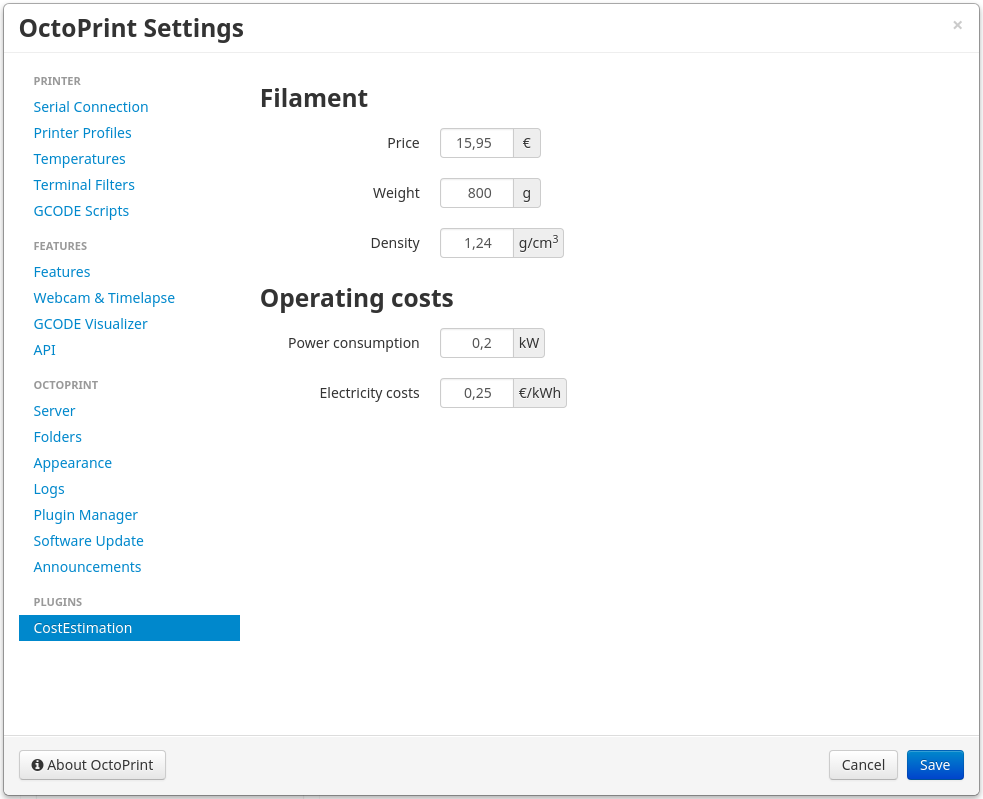
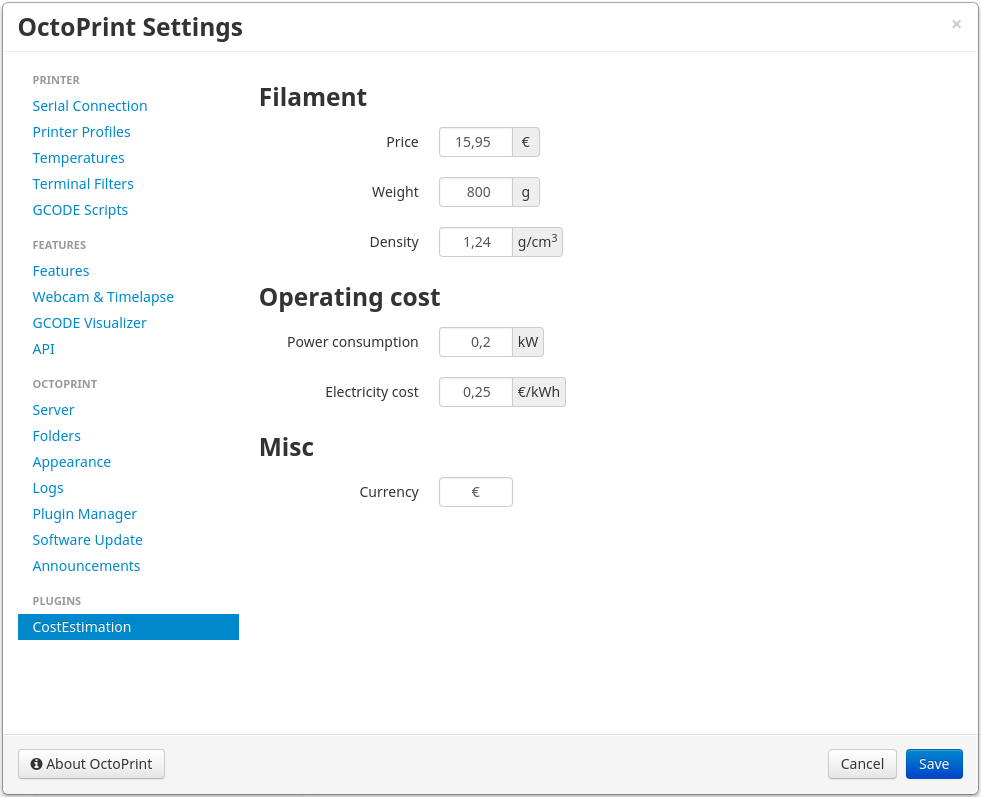
Added field to set currency symbol (#1)

diff --git a/octoprint_costestimation/static/js/costestimation.js b/octoprint_costestimation/static/js/costestimation.js
@@ -28,7 +28,7 @@ $(function() {
             var estimatedPrintTime = self.printerState.estimatedPrintTime() / 3600;  // h
             var estimatedCost = costPerWeight * filamentVolume * densityOfFilament + costPerHour * estimatedPrintTime;
 
-            return "" + estimatedCost.toFixed(2) + "€";
+            return "" + estimatedCost.toFixed(2) + self.settings.settings.plugins.costestimation.currency();
         });
 
         self.onBeforeBinding = function() {

diff --git a/octoprint_costestimation/__init__.py b/octoprint_costestimation/__init__.py
@@ -18,7 +18,8 @@ class CostEstimationPlugin(octoprint.plugin.SettingsPlugin,
             costOfFilament=20,          # €
             densityOfFilament=1.32,     # g/cm³
             powerConsumption=0.2,       # kWh
-            costOfElectricity=0.25      # €/kWh
+            costOfElectricity=0.25,     # €/kWh
+            currency="€"
         )
 
     def get_template_configs(self):

diff --git a/setup.py b/setup.py
@@ -6,7 +6,7 @@ from setuptools import setup
 plugin_identifier = "costestimation"
 plugin_package = "octoprint_costestimation"
 plugin_name = "OctoPrint-CostEstimation"
-plugin_version = "0.1.0"
+plugin_version = "0.2.0"
 plugin_description = "Displays the estimated print cost for the loaded model"
 plugin_author = "Sven Lohrmann"
 plugin_author_email = "malnvenshorn@gmail.com"
